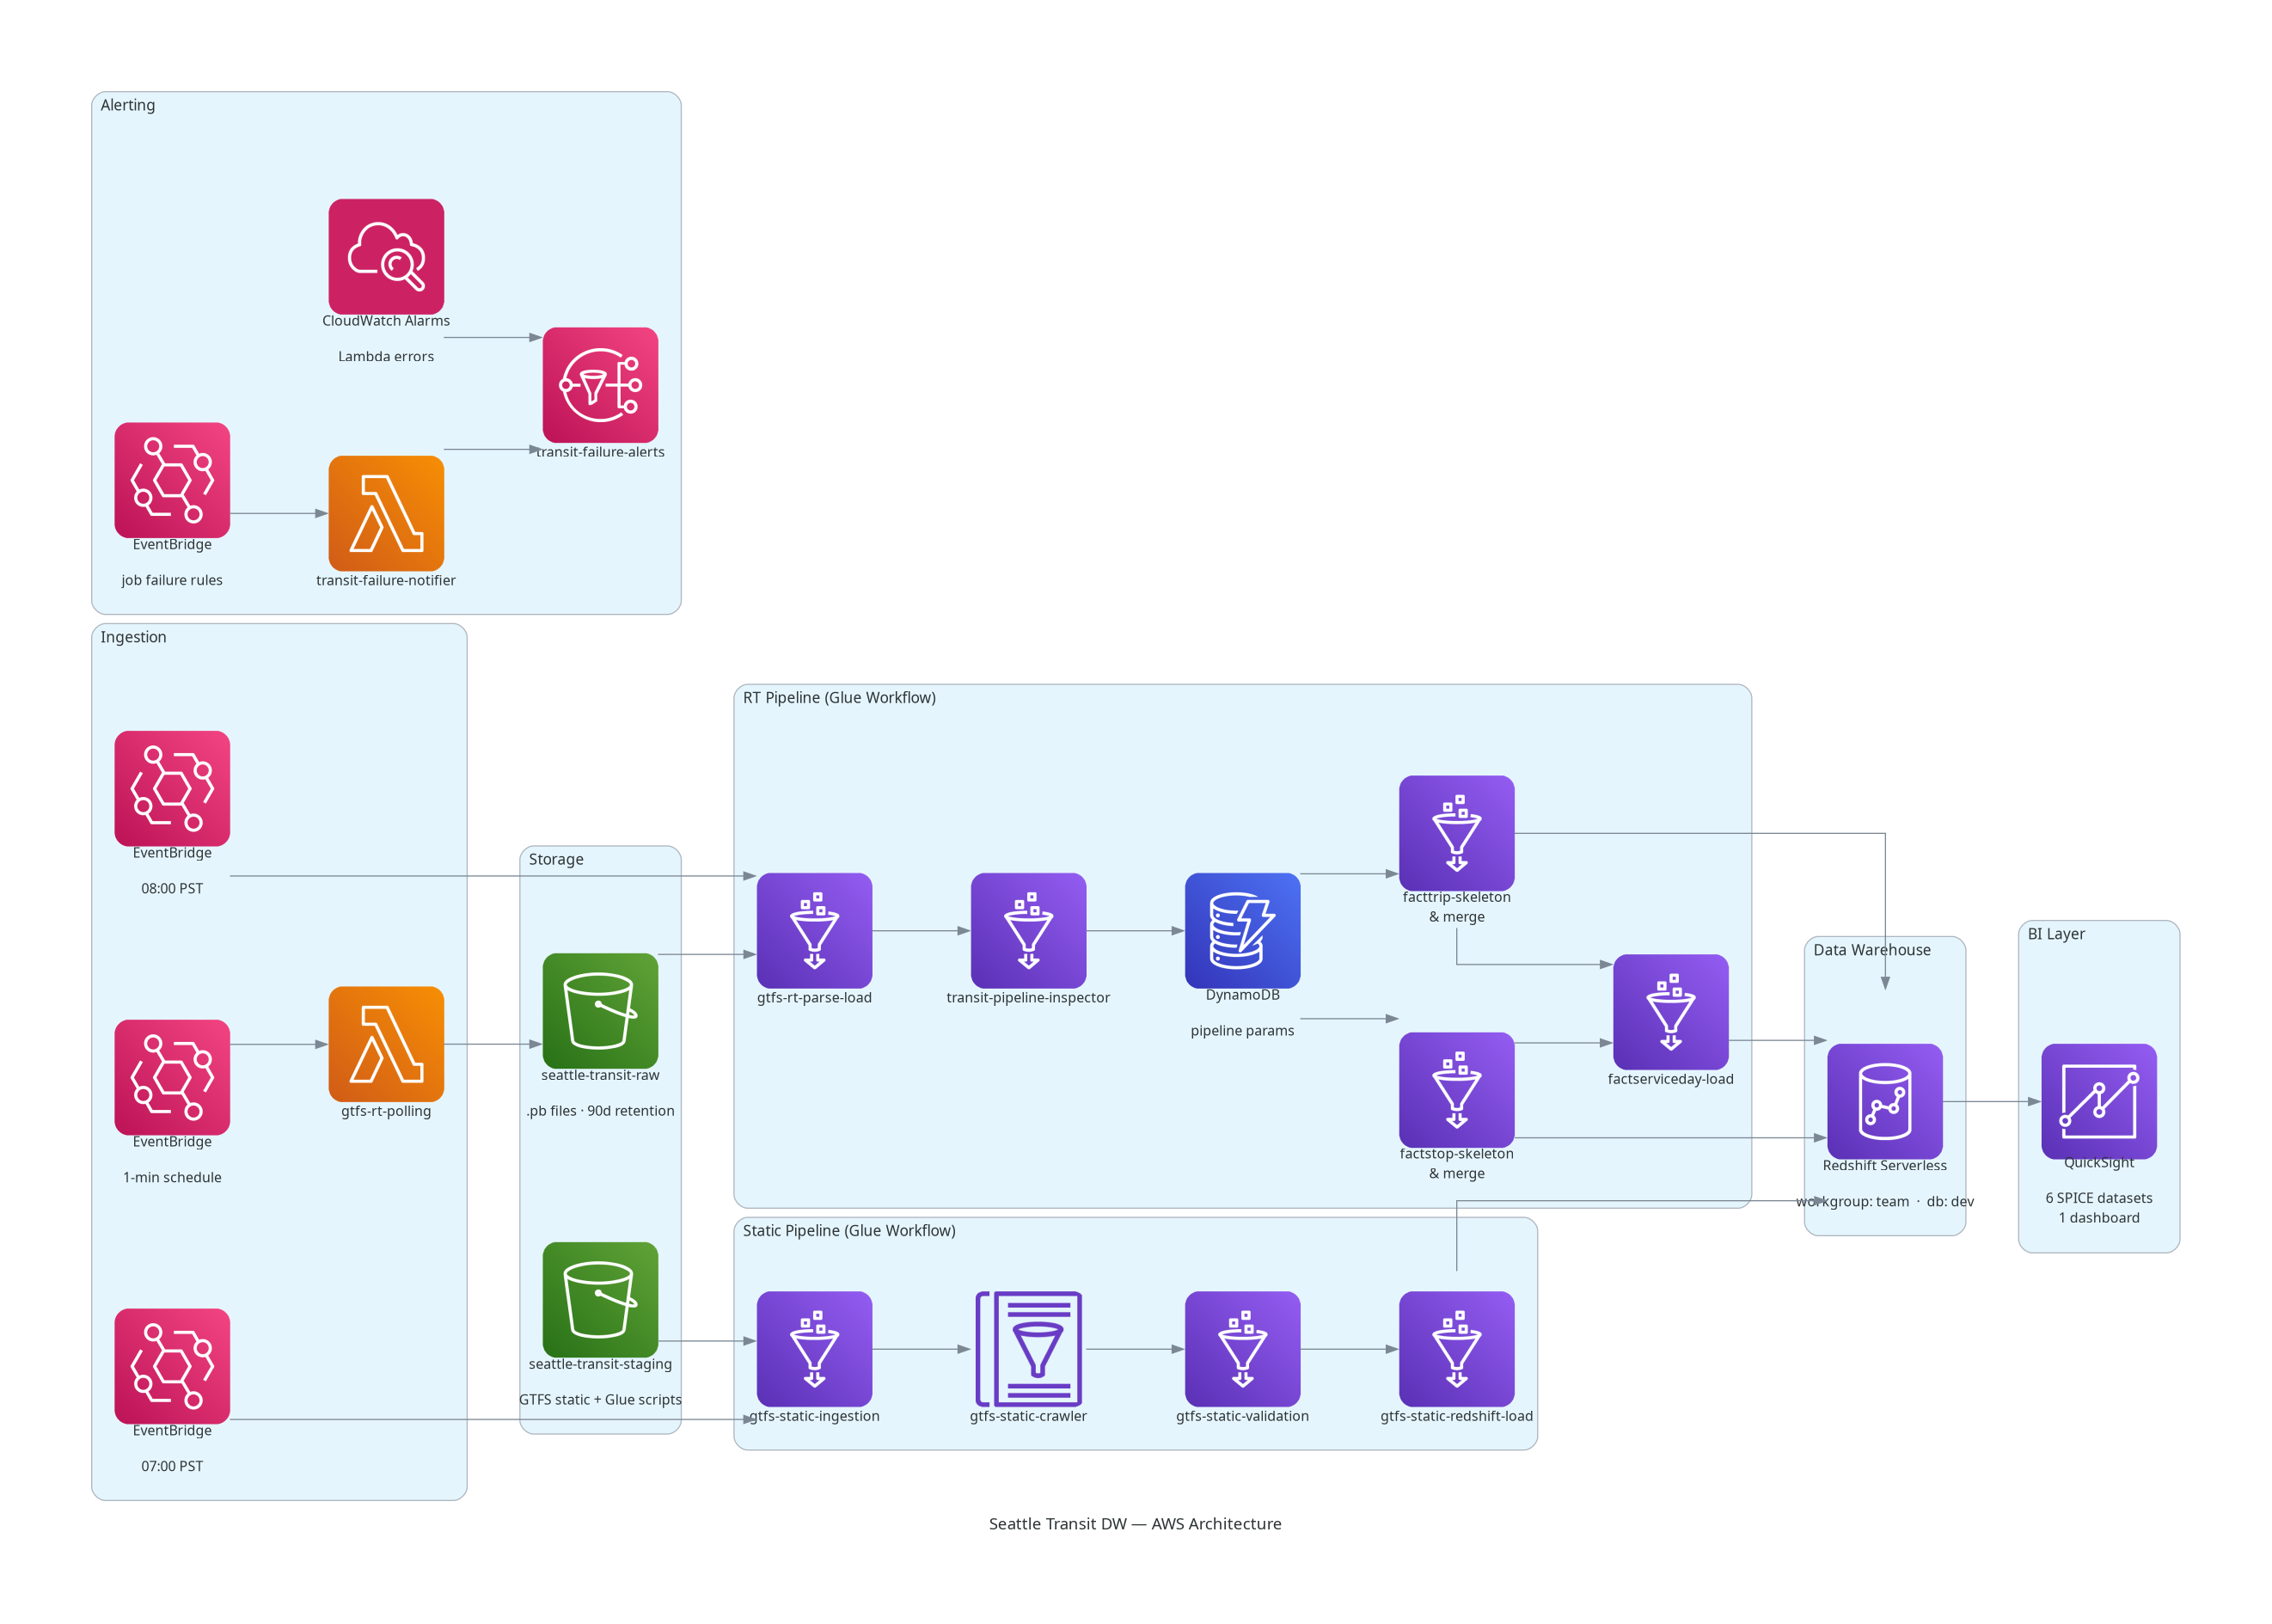
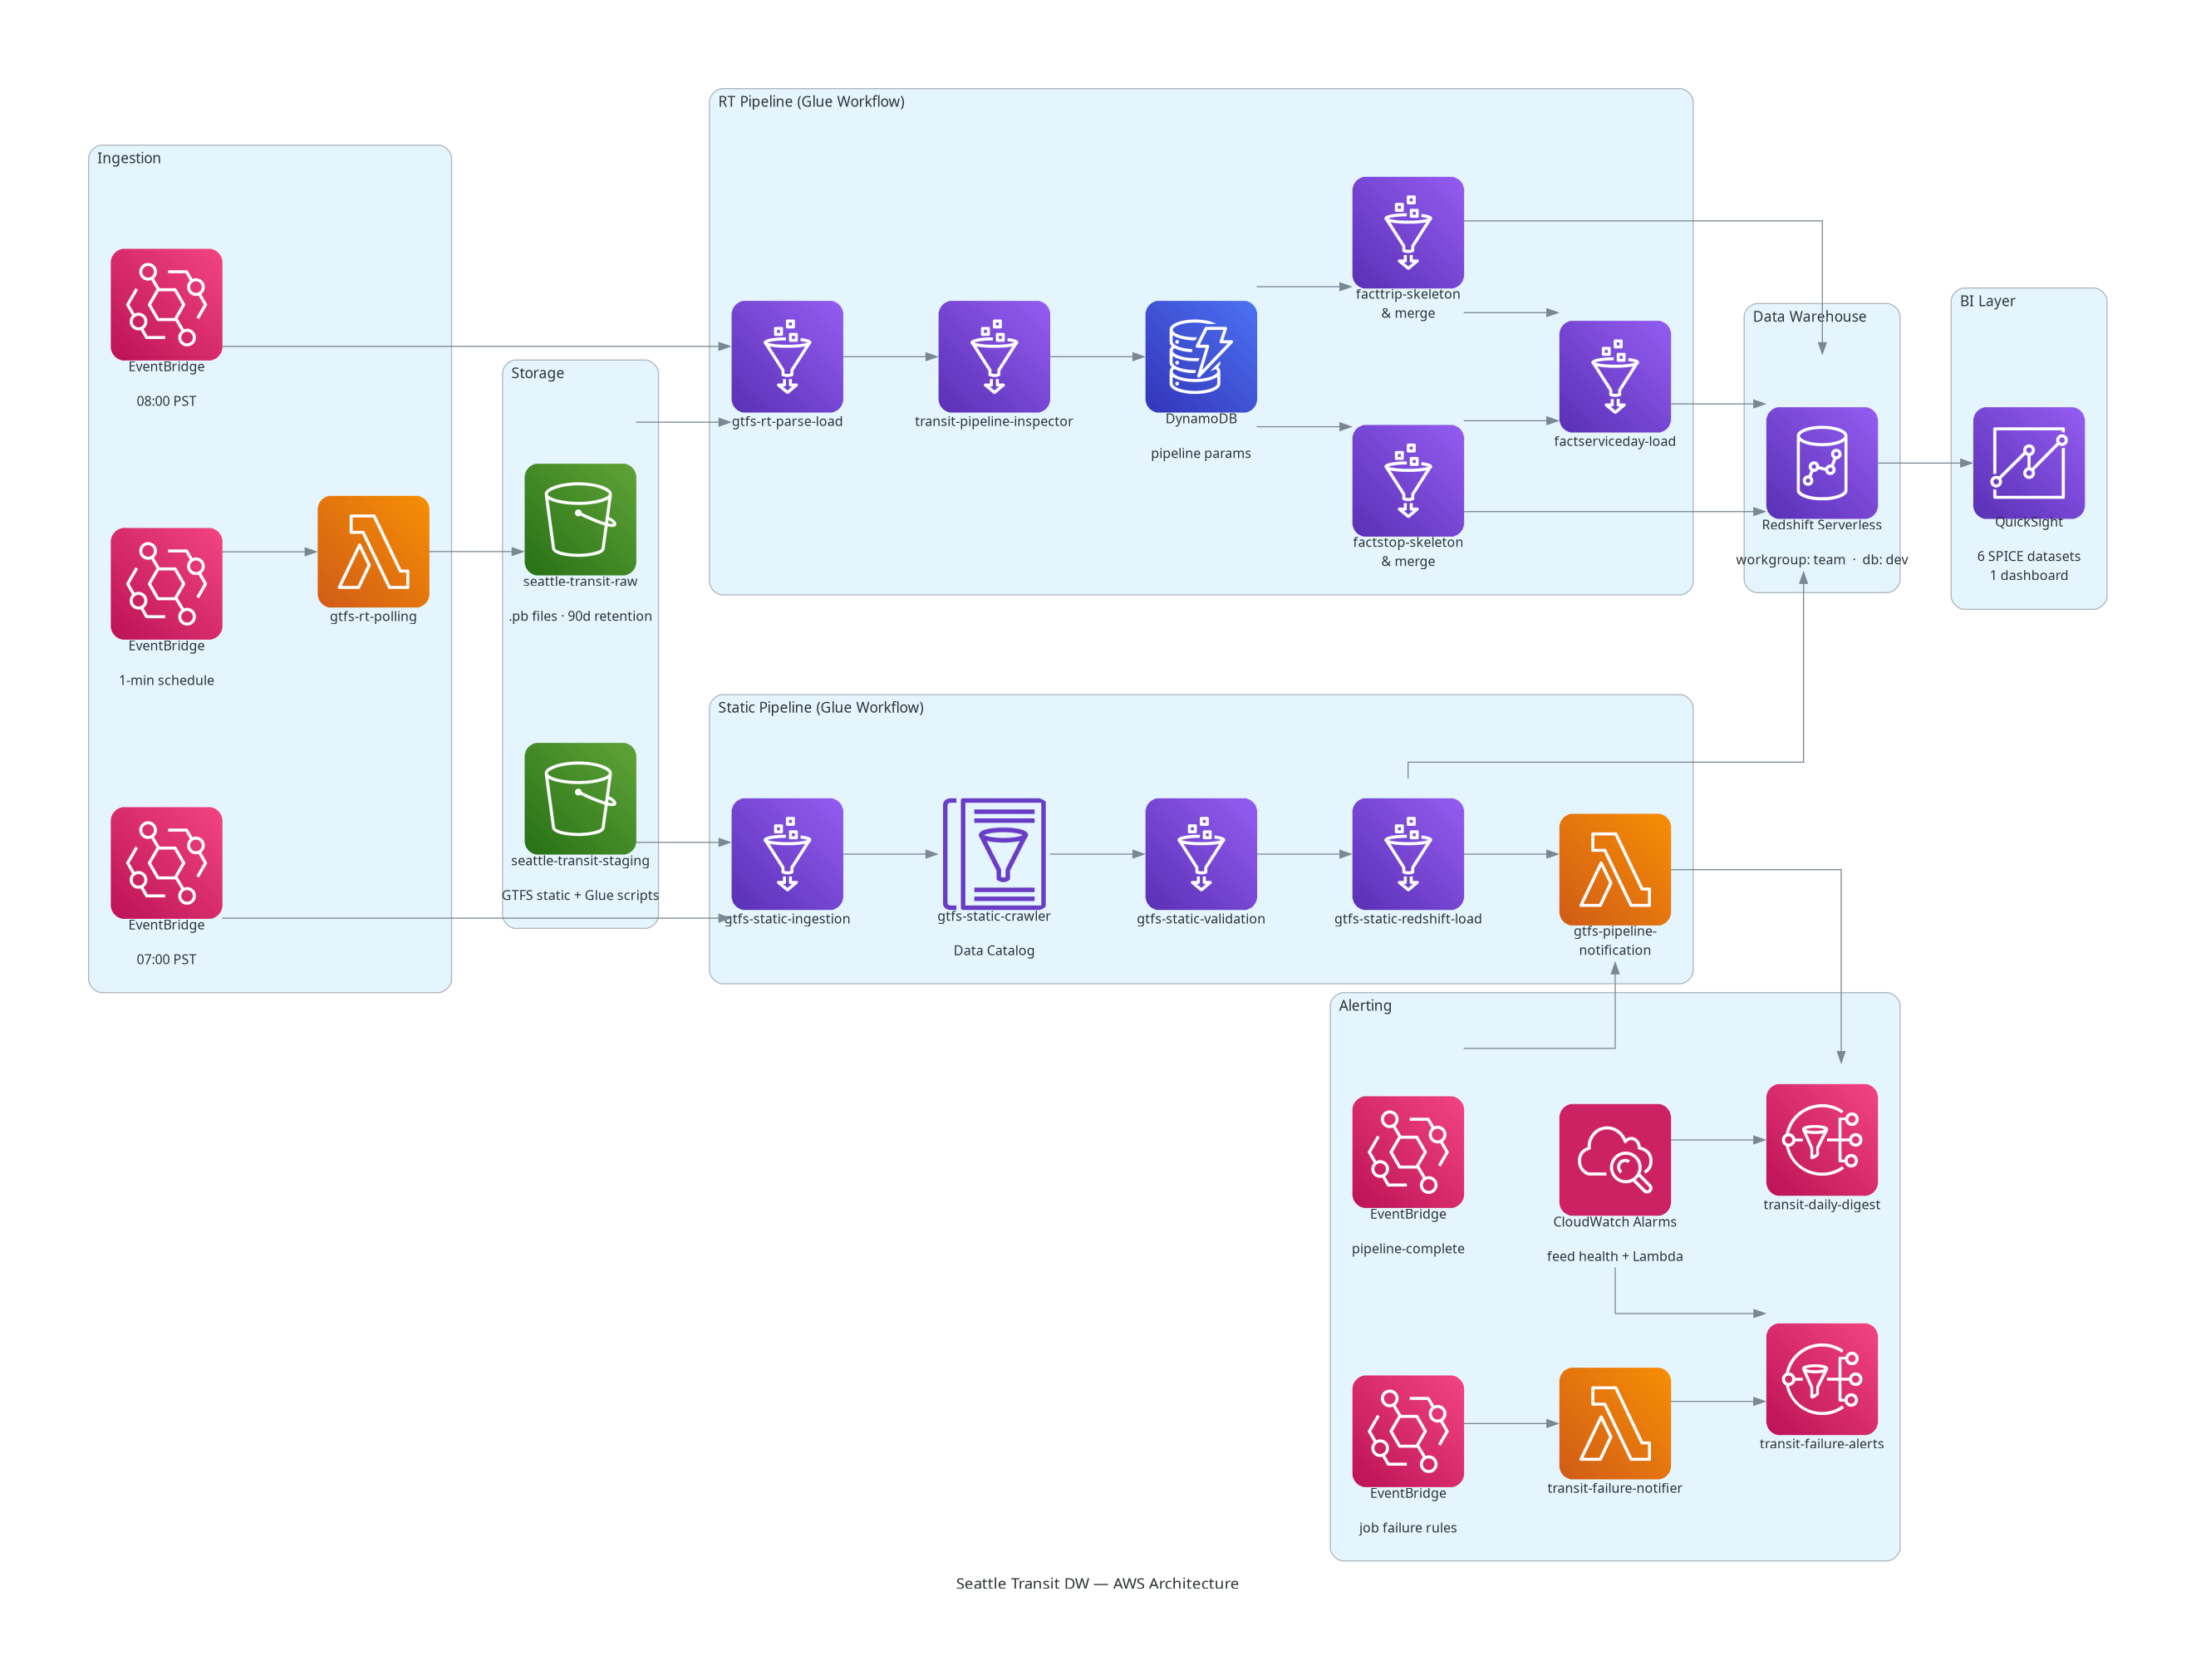
docs: update all READMEs and regenerate architecture diagrams
- Add glue_pipelines.png — new diagram showing both Glue workflow chains
  with crawler, DynamoDB param store, and daily digest notification path
- Update aws_architecture.png — add crawler, gtfs-pipeline-notification,
  transit-daily-digest SNS, and expanded CloudWatch alarms
- glue/README.md: add gtfs-static-crawler to static pipeline flow + job table
- lambda/README.md: fix trigger (EventBridge not manual), all 3 functions
  now deployed by deploy_notifications.sh
- deploy/README.md: document 9 new config vars (QS_SUBNETS, DIGEST_SNS_ARN,
  QS_VPC_CONNECTION_NAME, QS_SERVICE_ROLE_ARN, etc.)
- redshift/README.md: document all 7 deploy steps including Step 0 workgroup creation
- iam/README.md: add transit-failure-notifier-role
- eventbridge/README.md: add gtfs-static-pipeline-complete rule
- quicksight/README.md: add 7-step deploy table with VPC connection creation
- README.md: fix Glue count (8 jobs + 1 crawler), CloudWatch alarms (9),
  QuickSight (analyses + dashboards now script-managed), add DIGEST_EMAIL secret

diff --git a/docs/generate_diagrams.py b/docs/generate_diagrams.py
@@ -76,10 +76,11 @@ def aws_architecture():
             glue_fsd     = Glue("factserviceday-load")
 
         with Cluster("Static Pipeline (Glue Workflow)", graph_attr=CLUSTER_ATTR):
-            glue_ingest  = Glue("gtfs-static-ingestion")
-            glue_crawler = GlueDataCatalog("gtfs-static-crawler")
-            glue_valid   = Glue("gtfs-static-validation")
-            glue_rsload  = Glue("gtfs-static-redshift-load")
+            glue_ingest   = Glue("gtfs-static-ingestion")
+            glue_crawler  = GlueDataCatalog("gtfs-static-crawler\n\nData Catalog")
+            glue_valid    = Glue("gtfs-static-validation")
+            glue_rsload   = Glue("gtfs-static-redshift-load")
+            lam_notif     = Lambda("gtfs-pipeline-\nnotification")
 
         with Cluster("Data Warehouse", graph_attr=CLUSTER_ATTR):
             rs = Redshift("Redshift Serverless\n\nworkgroup: team  ·  db: dev")
@@ -88,10 +89,12 @@ def aws_architecture():
             qs = Quicksight("QuickSight\n\n6 SPICE datasets\n1 dashboard")
 
         with Cluster("Alerting", graph_attr=CLUSTER_ATTR):
-            eb_fail  = Eventbridge("EventBridge\n\njob failure rules")
-            lam_fail = Lambda("transit-failure-notifier")
-            sns_fail = SNS("transit-failure-alerts")
-            cw       = Cloudwatch("CloudWatch Alarms\n\nLambda errors")
+            eb_fail   = Eventbridge("EventBridge\n\njob failure rules")
+            eb_digest = Eventbridge("EventBridge\n\npipeline-complete")
+            lam_fail  = Lambda("transit-failure-notifier")
+            sns_fail  = SNS("transit-failure-alerts")
+            sns_digest= SNS("transit-daily-digest")
+            cw        = Cloudwatch("CloudWatch Alarms\n\nfeed health + Lambda")
 
         # Ingestion flow
         eb_poll   >> lam_poll  >> s3_raw
@@ -116,13 +119,16 @@ def aws_architecture():
         glue_crawler >> glue_valid
         glue_valid   >> glue_rsload
         glue_rsload  >> rs
+        glue_rsload  >> lam_notif
 
         # BI
         rs >> qs
 
         # Alerting
-        eb_fail  >> lam_fail >> sns_fail
-        cw       >> sns_fail
+        eb_fail   >> lam_fail >> sns_fail
+        eb_digest >> lam_notif >> sns_digest
+        cw        >> sns_fail
+        cw        >> sns_digest
 
 
 # ─────────────────────────────────────────────────────────────────────────────
@@ -209,6 +215,51 @@ def alerting_flow():
 
 
 # ─────────────────────────────────────────────────────────────────────────────
+# Diagram 4 — Glue Pipeline Workflows
+# ─────────────────────────────────────────────────────────────────────────────
+def glue_pipelines():
+    with Diagram(
+        "Seattle Transit DW — Glue Pipelines",
+        filename=str(OUT / "glue_pipelines"),
+        outformat="png",
+        show=False,
+        graph_attr={**GRAPH_ATTR, "splines": "ortho", "rankdir": "TB"},
+        node_attr=NODE_ATTR,
+        direction="TB",
+    ):
+        with Cluster("gtfs-static-pipeline  ·  07:00 PST daily", graph_attr=CLUSTER_ATTR):
+            eb_static   = Eventbridge("gtfs-static-daily-start\n\nscheduled trigger")
+            ingest      = Glue("gtfs-static-ingestion\n\ndownload + parse GTFS ZIP")
+            crawler     = GlueDataCatalog("gtfs-static-crawler\n\nupdate Data Catalog")
+            validation  = Glue("gtfs-static-validation\n\nschema + referential checks")
+            rs_load     = Glue("gtfs-static-redshift-load\n\nCOPY → stg.*")
+            notif       = Lambda("gtfs-pipeline-notification\n\ndaily digest email")
+
+        with Cluster("gtfs-rt-daily-pipeline  ·  08:00 PST daily", graph_attr=CLUSTER_ATTR):
+            eb_rt     = Eventbridge("gtfs-rt-daily-start\n\nscheduled trigger")
+            parse     = Glue("gtfs-rt-parse-load-glue\n\nparse .pb → COPY stg.*")
+            inspector = Glue("transit-pipeline-inspector\n\nwrite dates to DynamoDB")
+            ddb       = Dynamodb("seattle-transit-pipeline\n\npipeline params (7-day TTL)")
+            stop_load = Glue("factstop-skeleton-\nand-merge-load")
+            trip_load = Glue("facttrip-skeleton-\nand-merge-load")
+            fsd_load  = Glue("factserviceday-load\n\naggregates per agency/day")
+
+        rs = Redshift("Redshift Serverless\n\nworkgroup: team  ·  db: dev")
+        sns = SNS("transit-daily-digest")
+
+        # Static chain
+        eb_static >> ingest >> crawler >> validation >> rs_load >> rs
+        rs_load >> notif >> sns
+
+        # RT chain
+        eb_rt >> parse >> inspector >> ddb
+        ddb >> stop_load >> rs
+        ddb >> trip_load >> rs
+        stop_load >> fsd_load >> rs
+        trip_load >> fsd_load
+
+
+# ─────────────────────────────────────────────────────────────────────────────
 # Main
 # ─────────────────────────────────────────────────────────────────────────────
 if __name__ == "__main__":
@@ -219,4 +270,6 @@ if __name__ == "__main__":
     print("  ✓ data_flow.png")
     alerting_flow()
     print("  ✓ alerting_flow.png")
+    glue_pipelines()
+    print("  ✓ glue_pipelines.png")
     print("Done.")

diff --git a/README.md b/README.md
@@ -135,6 +135,10 @@ bash deploy/deploy_quicksight.sh --refresh-only # trigger SPICE refresh only
 
 ![AWS Architecture](docs/images/aws_architecture.png)
 
+### Glue Workflows
+
+![Glue Pipelines](docs/images/glue_pipelines.png)
+
 ### Data Flow
 
 ![Data Flow](docs/images/data_flow.png)
@@ -200,15 +204,15 @@ See [`scripts/README.md`](scripts/README.md) for full usage and cost estimates.
 
 | Service | Resource | Purpose |
 |---------|----------|---------|
-| Glue | 9 jobs, 2 workflows | ETL pipeline |
+| Glue | 8 jobs, 1 crawler, 2 workflows | ETL pipeline |
 | Redshift Serverless | workgroup: `team` / namespace: `transit` / db: `dev` | Data warehouse |
 | S3 | seattle-transit-raw/staging/processed | Data lake |
 | DynamoDB | seattle-transit-pipeline | Pipeline parameter store + audit trail |
 | EventBridge | gtfs-rt-polling-schedule · glue-job-failure · glue-workflow-failure | Polling trigger + failure routing |
 | SNS | transit-daily-digest (daily digest) · transit-failure-alerts (failure alerts) | Email notifications |
 | Lambda | gtfs-rt-polling · gtfs-pipeline-notification · transit-failure-notifier | Feed polling + alerting |
-| CloudWatch | 3 alarms (one per Lambda function) | Lambda error alerting → SNS |
-| QuickSight | 1 data source, 6 SPICE datasets, 1 shared folder, 1 dashboard | BI dashboards |
+| CloudWatch | 9 alarms (Lambda errors, GTFS-RT feed health, SNS delivery) | Alerting → SNS |
+| QuickSight | 1 VPC connection, 1 data source, 6 SPICE datasets, analyses, dashboards, 1 shared folder | BI dashboards |
 | IAM | 3 roles, 3 managed policies, 1 group (TransitDWTeam), 4 users | Access control |
 
 ---
@@ -225,7 +229,11 @@ See [`scripts/README.md`](scripts/README.md) for full usage and cost estimates.
 3. SPICE refresh (triggered in parallel for all 6 datasets)
 4. Shared folder membership + team permissions
 
-**Not managed by script (console only):** Analyses and dashboards — QuickSight analysis definitions are not CLI-portable.
+**Also managed by `deploy_quicksight.sh`:**
+5. Analyses (from `quicksight/analyses/*.json`)
+6. Dashboards (from `quicksight/dashboards/*.json`)
+
+> **Note:** After editing an analysis in the console, re-export with `bash deploy/deploy_quicksight.sh --export` and commit the updated JSON so it stays in sync with git.
 
 ---
 
@@ -263,6 +271,7 @@ cp .env.example .env
 | Variable | Used by | Where to get it |
 |----------|---------|-----------------|
 | `OBA_API_KEY` | `gtfs-rt-polling` Lambda | OneBusAway API key from transitapp.onebusaway.org |
+| `DIGEST_EMAIL` | `deploy_notifications.sh` | Email address to subscribe to the daily digest SNS topic |
 
 To change script version (e.g. after breaking changes):
 1. Update `SCRIPT_VERSION` in `config.env`

diff --git a/deploy/README.md b/deploy/README.md
@@ -25,7 +25,7 @@ bash deploy/deploy_all.sh --glue-only
 | `deploy_all.sh` | Master script — runs all others in dependency order | `--dry-run`, `--glue-only` |
 | `deploy_iam.sh` | IAM roles, managed policies, groups, user memberships | `--dry-run` |
 | `deploy_redshift.sh` | DDL schemas/tables + views via Redshift Data API | `--dry-run`, `--views-only` |
-| `deploy_glue.sh` | Glue jobs, workflows, triggers; uploads scripts to S3 | `--dry-run`, `--upload-only` |
+| `deploy_glue.sh` | Glue jobs, workflows, triggers, Glue crawler; uploads scripts to S3 | `--dry-run`, `--upload-only` |
 | `deploy_quicksight.sh` | QuickSight data sources, datasets, analyses, folder membership | `--dry-run`, `--refresh-only` |
 | `deploy_notifications.sh` | SNS topic, failure-notifier Lambda, EventBridge rules, CW alarms | `--dry-run` |
 
@@ -69,8 +69,18 @@ source deploy/config.env
 | `REDSHIFT_COPY_ROLE` | `arn:aws:iam::…:role/RedshiftS3CopyRole` | IAM role for Redshift COPY |
 | `RS_WORKGROUP` | `team` | Redshift Serverless workgroup |
 | `RS_DATABASE` | `dev` | Redshift database name |
+| `FAILURE_SNS_ARN` | `arn:aws:sns:…:transit-failure-alerts` | SNS topic for Glue/Lambda failure alerts |
+| `DIGEST_SNS_ARN` | `arn:aws:sns:…:transit-daily-digest` | SNS topic for daily pipeline digest |
+| `FAILURE_NOTIFIER_LAMBDA` | `transit-failure-notifier` | Lambda function name (used by IAM + notifications) |
+| `QS_VPC` | `vpc-0a11677a4786d95db` | VPC ID for QuickSight → Redshift connection |
+| `QS_SECURITY_GROUP` | `sg-0f60cd6f1db33cff9` | Security group for Redshift workgroup + QS VPC connection |
+| `QS_SUBNETS` | `subnet-… subnet-…` | Space-separated subnet IDs (all AZs) — workgroup + VPC connection |
+| `QS_VPC_CONNECTION_NAME` | `seattle-transit-vpc` | Stable name for QuickSight VPC connection (looked up at deploy time) |
+| `QS_SERVICE_ROLE_ARN` | `arn:aws:iam::…:role/aws-quicksight-service-role-v0` | QuickSight service role (created when QS first enabled) |
 
-**Secrets** (API keys, passwords) are never in `config.env` — they are injected at runtime via AWS Secrets Manager or environment variables set in CI.
+**Account-specific vars:** `QS_VPC`, `QS_SECURITY_GROUP`, `QS_SUBNETS` are tied to the VPC in this AWS account. Update all three when deploying to a new account — lookup commands are in the comments in `config.env`.
+
+**Secrets** (API keys, passwords) are never in `config.env` — they are loaded from `.env` (git-ignored) at deploy time. Copy `.env.example` to `.env` and fill in `DIGEST_EMAIL` and `OBA_API_KEY`.
 
 ---
 

diff --git a/glue/README.md b/glue/README.md
@@ -9,13 +9,15 @@ Two daily Glue workflows run in sequence via scheduled triggers:
 
 ### 1. `gtfs-static-pipeline` — 07:00 PST (14:00 UTC)
 
-Ingests the GTFS static schedule feed, validates it, and loads it to Redshift.
+Ingests the GTFS static schedule feed, validates it, and loads it to Redshift. On completion, triggers a daily digest email.
 
 ```
 gtfs-static-daily-start (SCHEDULED)
   └─► gtfs-static-ingestion
-        └─► gtfs-static-validation
-              └─► gtfs-static-redshift-load
+        └─► gtfs-static-crawler   ← updates Glue Data Catalog
+              └─► gtfs-static-validation
+                    └─► gtfs-static-redshift-load
+                          └─► gtfs-pipeline-notification (Lambda)
 ```
 
 ### 2. `gtfs-rt-daily-pipeline` — 08:00 PST (15:00 UTC)
@@ -42,6 +44,7 @@ All jobs run on **Glue 4.0**, worker type **G.1X**.
 | `gtfs-static-ingestion` | `gtfs_static_ingestion.py` | 2 | 60 min | static |
 | `gtfs-static-validation` | `gtfs_static_validation.py` | 2 | 60 min | static |
 | `gtfs-static-redshift-load` | `gtfs_static_redshift_load.py` | 2 | 60 min | static |
+| `gtfs-static-crawler` | *(Glue Crawler)* | — | — | static |
 | `gtfs-rt-parse-load-glue` | `gtfs-rt-parse-load-glue.py` | 4 | 40 min | rt |
 | `transit-pipeline-inspector` | `transit_pipeline_inspector_v2.py` | 2 | 15 min | rt |
 | `factstop-skeleton-and-merge-load` | `factstop_skeleton_and_merge_v2.py` | 2 | 20 min | rt |
@@ -50,9 +53,14 @@ All jobs run on **Glue 4.0**, worker type **G.1X**.
 
 > **Not in production:** `glue_rt_polling.py` — an older Glue-based RT poller, superseded by the Lambda function at `lambda/gtfs-rt-polling/`. The active poller is the Lambda, triggered by EventBridge every 1 minute. Both write to the same S3 key format (`gtfs-rt/{agency}/{feed_type}/{YYYY/MM/DD/HHmmss}.pb`) — running both simultaneously would cause duplicate writes.
 
+![Glue Pipelines](../docs/images/glue_pipelines.png)
+
 ---
 
 ## Job Descriptions
+
+### `gtfs-static-crawler`
+Glue Crawler targeting `s3://seattle-transit-staging/gtfs-static/`. Runs after `gtfs-static-ingestion` to update the Glue Data Catalog (`seattle_transit_staging` database) so downstream jobs and ad-hoc Athena queries see the latest partitions. The Data Catalog database is created automatically if absent at deploy time.
 
 ### `gtfs_static_ingestion.py`
 Downloads the GTFS static zip from the OBA API, extracts CSV feeds, parses them (using `csv.reader` to handle quoted fields), and writes to `s3://seattle-transit-staging/gtfs-static/`. Computes a SHA-256 hash to skip re-ingestion if the feed hasn't changed.

diff --git a/redshift/README.md b/redshift/README.md
@@ -85,9 +85,23 @@ bash deploy/deploy_redshift.sh --views-only # redeploy views only (fast)
 bash deploy/deploy_redshift.sh --dry-run    # print SQL without executing
 ```
 
+**Deploy steps (in order):**
+
+| Step | Action |
+|------|--------|
+| 0 | Create Redshift Serverless namespace (`transit`) + workgroup (`team`) if absent. Waits until workgroup is `AVAILABLE`. |
+| 1 | `CREATE SCHEMA IF NOT EXISTS stg / dw` |
+| 2 | `stg_tables.sql` — staging table DDL |
+| 3 | `dim_tables.sql` — dimension table DDL |
+| 4 | `fact_tables.sql` — fact table DDL |
+| 4b | `dw_tables.sql` — full `dw` schema snapshot (safety net for fresh deploys) |
+| 5 | All 10 views — `CREATE OR REPLACE VIEW` |
+| 6 | `GRANT` statements — Glue role, team members, `quicksight_user` |
+
 **Idempotency:**
 - DDL uses `CREATE TABLE IF NOT EXISTS` — never drops or truncates existing data
 - Views use `CREATE OR REPLACE VIEW` — always applies the latest definition
+- Step 0 namespace/workgroup creation is fully idempotent
 
 **Connection:** Redshift Serverless workgroup `team`, database `dev`, via Redshift Data API (polls until complete).
 

diff --git a/lambda/README.md b/lambda/README.md
@@ -40,7 +40,7 @@ Fetches all 4 GTFS-RT feeds (2 agencies × 2 feed types) on every invocation and
 
 ## gtfs-pipeline-notification
 
-**Trigger:** Called after the static pipeline completes (manual or scheduled via EventBridge)
+**Trigger:** `gtfs-static-pipeline-complete` EventBridge rule — fires when the `gtfs-static-pipeline` Glue workflow reaches `SUCCEEDED` state
 
 Reads pipeline run metadata from DynamoDB (`seattle-transit-pipeline` table) and sends a formatted daily summary to SNS, including:
 - Pipeline run status and timestamp
@@ -49,7 +49,7 @@ Reads pipeline run metadata from DynamoDB (`seattle-transit-pipeline` table) and
 - Fallback events (if stale data was used)
 
 **Environment variables:**
-- `SNS_TOPIC_ARN` — SNS topic for notifications
+- `SNS_TOPIC_ARN` — ARN of `transit-daily-digest` SNS topic
 
 **Runtime:** Python 3.12, 128 MB, 30s timeout
 
@@ -75,14 +75,17 @@ CloudWatch Alarms for Lambda function errors also route directly to the same SNS
 
 ## Deploy
 
-Lambda functions are deployed by `deploy/deploy_notifications.sh` (failure-notifier) and manually for the others. Each function has a `config.json` with runtime settings:
+All three Lambda functions are deployed by `deploy/deploy_notifications.sh`. Each function has a `config.json` with runtime settings.
 
 ```bash
-bash deploy/deploy_notifications.sh        # deploys failure-notifier
+bash deploy/deploy_notifications.sh        # deploy all three functions + EventBridge rules + alarms
 bash deploy/deploy_notifications.sh --dry-run
 ```
 
-The `gtfs-rt-polling` and `gtfs-pipeline-notification` functions do not have a dedicated deploy script — they are managed via the AWS console or deployed manually using their `config.json`.
+Deploy order within the script:
+- **Step 3** — `transit-failure-notifier` (code + config + IAM role)
+- **Step 3b** — `gtfs-rt-polling` (code + config)
+- **Step 3c** — `gtfs-pipeline-notification` (code + config)
 
 ---
 

diff --git a/quicksight/README.md b/quicksight/README.md
@@ -43,6 +43,18 @@ quicksight/
 
 ## Deploy
 
+**Deploy steps (in order):**
+
+| Step | Action |
+|------|--------|
+| 0 | Look up VPC connection by name (`QS_VPC_CONNECTION_NAME`); create if absent and wait until `AVAILABLE` |
+| 1 | Upsert Redshift data source |
+| 2 | Upsert all 6 SPICE datasets |
+| 3 | Trigger SPICE refresh for all 6 datasets |
+| 4 | Create shared folder + add all assets as members + grant team permissions |
+| 5 | Deploy analyses from `quicksight/analyses/*.json` |
+| 6 | Deploy dashboards from `quicksight/dashboards/*.json` |
+
 ```bash
 # Full deploy — upserts data source, all 6 datasets, analyses, dashboards; triggers SPICE refresh
 bash deploy/deploy_quicksight.sh

diff --git a/iam/README.md b/iam/README.md
@@ -39,6 +39,14 @@ Assumed by Redshift Serverless for COPY from S3.
 
 **Trust:** `redshift.amazonaws.com`
 
+### transit-failure-notifier-role
+Assumed by the `transit-failure-notifier` Lambda function.
+
+**Trust:** `lambda.amazonaws.com`
+
+**Inline policies:**
+- `TransitFailureNotifierPolicy` → `logs:CreateLogGroup/Stream/PutLogEvents`, `sns:Publish` to `transit-failure-alerts`, `glue:GetJobRun/GetWorkflowRun`
+
 ---
 
 ## Groups

diff --git a/eventbridge/README.md b/eventbridge/README.md
@@ -10,6 +10,7 @@ EventBridge rule definitions for the Seattle Transit DW — stored as JSON for s
 | `gtfs-rt-polling-schedule.json` | `gtfs-rt-polling-schedule` | ENABLED | `rate(1 minute)` → `gtfs-rt-polling` Lambda |
 | `glue-job-failure-rule.json` | `transit-glue-job-failure` | ENABLED | Glue Job State Change `FAILED`, `TIMEOUT`, `ERROR` → `transit-failure-notifier` Lambda |
 | `glue-workflow-failure-rule.json` | `transit-glue-workflow-failure` | ENABLED | Glue Workflow Run Status `FAILED`, `STOPPED`, `TIMEOUT`, `ERROR` → `transit-failure-notifier` Lambda |
+| *(managed in deploy script)* | `gtfs-static-pipeline-complete` | ENABLED | Glue Workflow `gtfs-static-pipeline` → `SUCCEEDED` → `gtfs-pipeline-notification` Lambda |
 
 ---
 
@@ -23,6 +24,9 @@ Matches any Glue job entering `FAILED`, `TIMEOUT`, or `ERROR` state across the a
 
 ### `transit-glue-workflow-failure`
 Matches any Glue workflow run entering `FAILED`, `STOPPED`, `TIMEOUT`, or `ERROR` state. Same target and alert path as above.
+
+### `gtfs-static-pipeline-complete`
+Matches the `gtfs-static-pipeline` Glue workflow entering `SUCCEEDED` state. Routes to `gtfs-pipeline-notification` Lambda, which publishes a daily pipeline summary to the `transit-daily-digest` SNS topic. This rule is defined inline in `deploy_notifications.sh` (no separate JSON file — the pattern is account-specific).
 
 ---
 